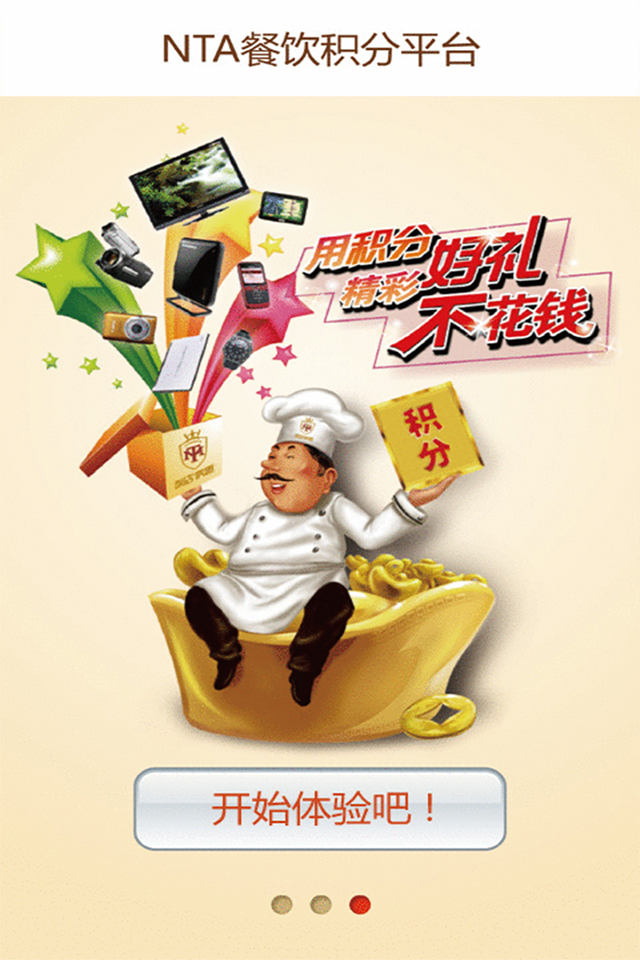
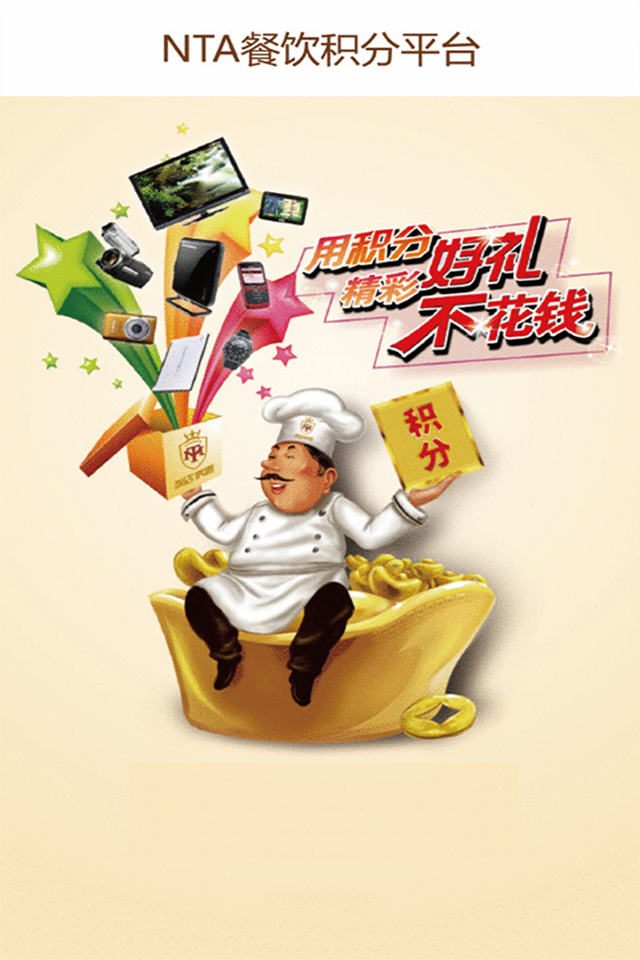
第一次启动业

Changed region(s): [[0.1875, 0.7812, 0.8125, 0.9062], [0.4062, 0.9375, 0.5938, 0.9688]]

diff --git a/Totole/AppDelegate.m b/Totole/AppDelegate.m
@@ -22,19 +22,40 @@
     // Override point for customization after application launch.
     
     NSLog(@"- (BOOL)application:");
+    
+    if (![[NSUserDefaults standardUserDefaults]boolForKey:@"firstLaunch"])
+    {
+        [[NSUserDefaults standardUserDefaults]setBool:YES forKey:@"firstLaunch"];
+        
+        
+        _startView = [[StartView alloc] initWithFrame:[[UIScreen mainScreen] bounds]];
+        _startView.delegate = self;
+        [self.window addSubview:_startView];
+        
+        
+    }
+    else
+    {
+        [self didStartApp];
+    }
 
-    StartView *_startView = [[StartView alloc] initWithFrame:[[UIScreen mainScreen] bounds]];
-    _startView.delegate = self;
-    [self.window addSubview:_startView];
     
     self.window.backgroundColor = [UIColor colorWithRed:254.0f/255.0f green:239.0f/255.0f blue:222.0f/255.0f alpha:1];
-    [self.window makeKeyAndVisible];
+    
+    [self.window makeKeyAndVisible]; 
     return YES;
+    
+    
 }
 
--(void)didStartApp{
+-(void)didStartApp
+{
     //startView
-    [[[self.window subviews] objectAtIndex:0] removeFromSuperview];
+    if (_startView) 
+    {
+        [[[self.window subviews] objectAtIndex:0] removeFromSuperview];
+    }
+    
     
     LoginViewController *loginVC = [[LoginViewController alloc]init];
     UINavigationController *nav = [[UINavigationController alloc]initWithRootViewController:loginVC];

diff --git a/Totole/Controller/Login/StartView.m b/Totole/Controller/Login/StartView.m
@@ -31,7 +31,7 @@
             UIImageView *adView = [[UIImageView alloc]initWithFrame:vFrame];
             [adView setImage:[UIImage imageNamed:[NSString stringWithFormat:@"firstLogin_%d.png",i+1]]];
             if (i==2) {
-                UIImage *starimg = [UIImage imageNamed:@"login_login.png"];
+                UIImage *starimg = [UIImage imageNamed:@"stare_experience.png"];
                 UIButton *starBtn = [[UIButton alloc]initWithFrame:CGRectMake(192/2, 763/2, starimg.size.width/2, starimg.size.height/2)];
                 [starBtn setImage:starimg forState:UIControlStateNormal];
                 [starBtn addTarget:self action:@selector(statAppEvent:) forControlEvents:UIControlEventTouchUpInside];
@@ -45,7 +45,7 @@
             
         }
         
-        _pageControl = [[StyledPageControl alloc] initWithFrame:CGRectMake(6, (self.frame.size.height-20), self.frame.size.width, 20)];
+        _pageControl = [[StyledPageControl alloc] initWithFrame:CGRectMake(6, (self.frame.size.height-35), self.frame.size.width, 20)];
         [_pageControl setAutoresizingMask:UIViewAutoresizingFlexibleWidth];
         [_pageControl setPageControlStyle:PageControlStyleThumb];
         [_pageControl setThumbImage:[UIImage imageNamed:@"pageControIcon_disable@2x.png"]];

diff --git a/Totole/AppDelegate.h b/Totole/AppDelegate.h
@@ -31,6 +31,7 @@ typedef enum
 @interface AppDelegate : UIResponder <UIApplicationDelegate,UITabBarControllerDelegate,StartViewDelegate>
 {
     BOOL cook;
+    StartView *_startView;
 }
 
 @property (strong, nonatomic) UIWindow *window;
